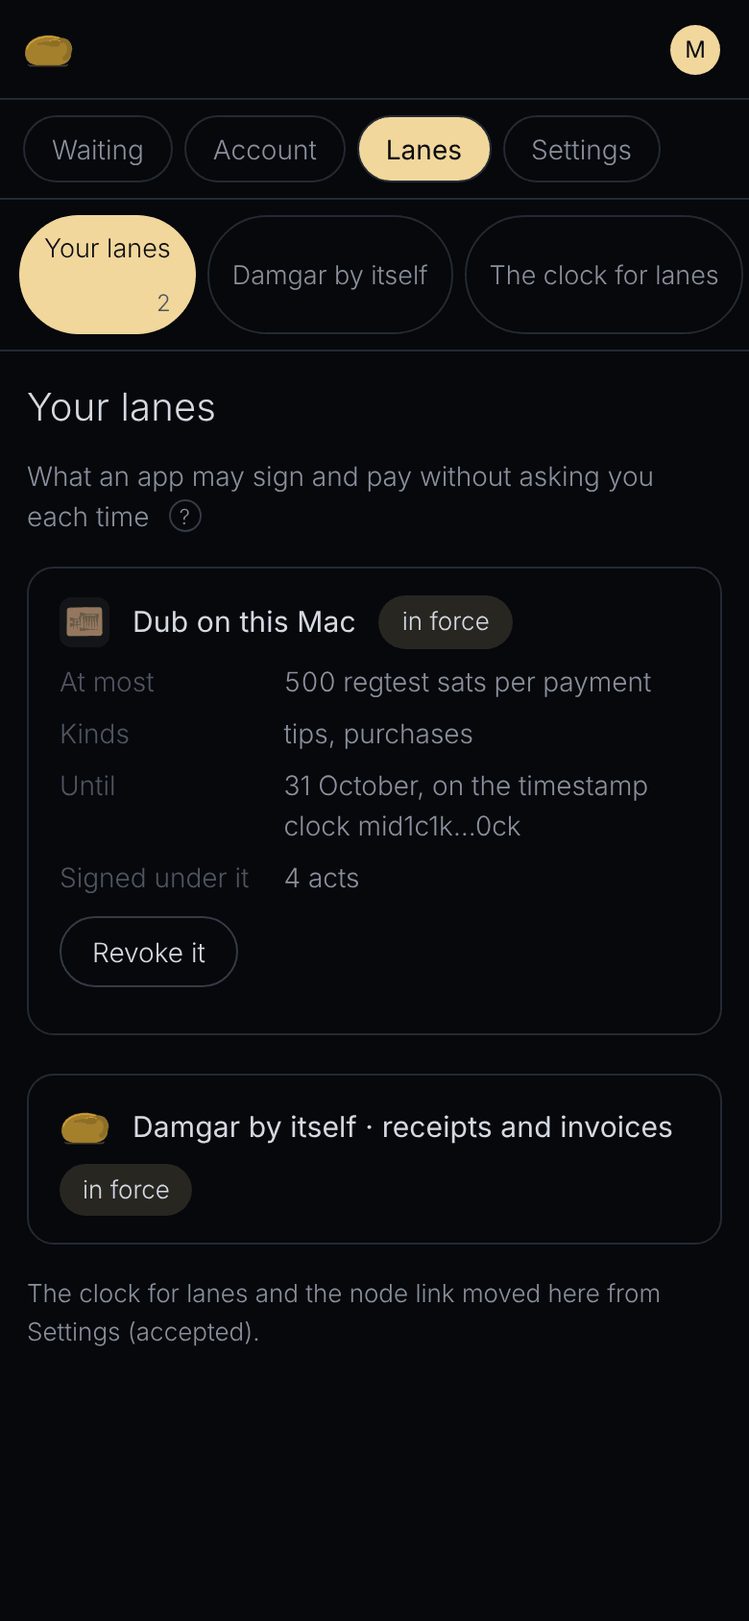
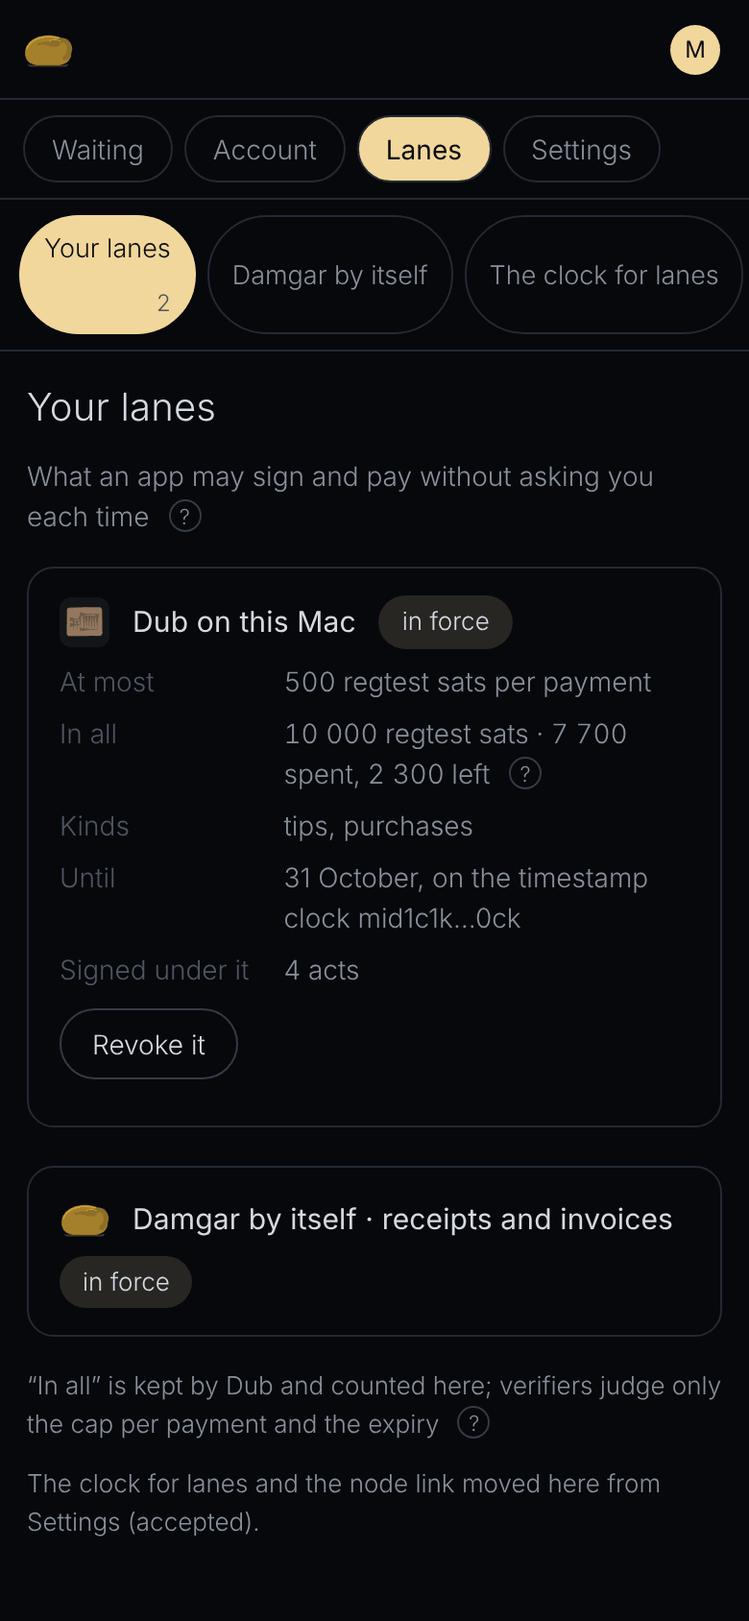
Three ways to pay from Dub, and a lane with a cap in all
Nobody, allegedly, 21 October 2026: Dub may buy, tip, unlock and pay in
three ways (by hand in Damgar; a money message Damgar queues, popping up on
the Mac; a lane granted in Damgar), and the lane gets a cap in all beside
the cap per act ("Yes, add it", after its cost was stated: kept by the
apps, not judged by verifiers). Drawn: the chooser in Dub (new mockup
dub-pay-chooser), "In all" on Damgar's lane, "Paste an act to sign" in
Damgar's Waiting; a payment under the lane is finished in Dub, its record in
Damgar's account. The report lists the tasks this creates for the build
sessions (grant-limits draft 3, the runner cMIP, Damgar's paste).

Claude-Session: https://claude.ai/code/session_01QoHu5J9KBXykGPCHZ7ZQVy

diff --git a/docs/design/mockups/damgar-identity-panel.html b/docs/design/mockups/damgar-identity-panel.html
@@ -2,7 +2,7 @@
 <html lang="en"><head><meta charset="utf-8"><meta name="viewport" content="width=device-width,initial-scale=1">
 <title>Damgar: The identity panel: + Add (Damgar gains Make) (mockup)</title><link rel="stylesheet" href="suite.css"></head>
 <body class="damgar"><div class="win">
-<header class="top"><div class="app"><img src="icons/damgar.png" alt=""><span class="nm">Damgar</span></div><nav class="tabs"><span class="tab on">Waiting</span><span class="tab">Account</span><span class="tab">Lanes</span><span class="tab">Settings</span></nav><span class="grow"></span><span class="grow"></span><button class="me"><span class="n">Max</span><span class="s">mid1qx7…m4k</span><span class="dot">M</span></button></header><nav class="phonetabs"><span class="tab on">Waiting</span><span class="tab">Account</span><span class="tab">Lanes</span><span class="tab">Settings</span></nav><div class="body"><aside class="col"><a class="on ">To sign<span class="k">3</span></a><a class="">To pay<span class="k">1</span></a><a class="">Requests and debts</a><div class="sep"></div><a class="">For Collective Y<span class="k">0</span></a></aside><section class="pane"><h2>To sign</h2><div class="feedwrap"><div class="feed "><article class="act"><span class="when">09:44</span><button class="signer"><span class="sid">mid1qx7…m4k</span><span class="nm">Max</span></button><div class="txt"><span class="kind">tip · from Dub</span>500 regtest sats to Pa, for “The reading of the tablets moves…”</div><div class="row" style="margin:4px 0"><span class="btn p">Sign it</span><span class="btn q">Decline</span></div><div class="foot"><span class="v" title="verified">✓</span><button class="actid">mact1d1t…7ip</button></div></article><article class="act"><span class="when">09:02</span><button class="signer"><span class="sid">mid1h3r…8tc</span><span class="nm">Ph</span></button><div class="txt"><span class="kind">request</span>Ph asks Max for 1 200 regtest sats: “the second tablet’s clay”.</div><div class="row" style="margin:4px 0"><span class="btn">Pay it</span><span class="btn q">Accept as a debt</span><span class="btn q">Refuse</span></div><div class="foot"><span class="v" title="verified">✓</span><button class="actid">mact1q8r…2ow</button></div></article><article class="act"><span class="when">Mon</span><button class="signer"><span class="sid">mid1qx7…m4k</span><span class="nm">Max</span></button><div class="txt"><span class="kind">anchor · from Ummia</span>Anchor mor-dub 0.4 on Bitcoin: tier “next batch”, 300 regtest sats.</div><div class="row" style="margin:4px 0"><span class="btn p">Sign it</span><span class="btn q">Decline</span></div><div class="foot"><span class="v" title="verified">✓</span><button class="actid">mact1a6c…9qz</button></div></article></div></div></section></div><div class="shade" style="background:rgba(3,4,6,.45)"></div><div class="panel"><div class="idrow on"><span class="dot">M</span><div><div class="n">Max</div><div class="s">mid1qx7…m4k</div></div><span class="more">⋯</span></div>
+<header class="top"><div class="app"><img src="icons/damgar.png" alt=""><span class="nm">Damgar</span></div><nav class="tabs"><span class="tab on">Waiting</span><span class="tab">Account</span><span class="tab">Lanes</span><span class="tab">Settings</span></nav><span class="grow"></span><span class="grow"></span><button class="me"><span class="n">Max</span><span class="s">mid1qx7…m4k</span><span class="dot">M</span></button></header><nav class="phonetabs"><span class="tab on">Waiting</span><span class="tab">Account</span><span class="tab">Lanes</span><span class="tab">Settings</span></nav><div class="body"><aside class="col"><a class="on ">To sign<span class="k">3</span></a><a class="">To pay<span class="k">1</span></a><a class="">Requests and debts</a><div class="sep"></div><a class="">For Collective Y<span class="k">0</span></a><div class="sep"></div><a class="add">+ Paste an act to sign</a></aside><section class="pane"><h2>To sign</h2><div class="feedwrap"><div class="feed "><article class="act"><span class="when">09:44</span><button class="signer"><span class="sid">mid1qx7…m4k</span><span class="nm">Max</span></button><div class="txt"><span class="kind">tip · from Dub</span>500 regtest sats to Pa, for “The reading of the tablets moves…”</div><div class="row" style="margin:4px 0"><span class="btn p">Sign it</span><span class="btn q">Decline</span></div><div class="foot"><span class="v" title="verified">✓</span><button class="actid">mact1d1t…7ip</button></div></article><article class="act"><span class="when">09:02</span><button class="signer"><span class="sid">mid1h3r…8tc</span><span class="nm">Ph</span></button><div class="txt"><span class="kind">request</span>Ph asks Max for 1 200 regtest sats: “the second tablet’s clay”.</div><div class="row" style="margin:4px 0"><span class="btn">Pay it</span><span class="btn q">Accept as a debt</span><span class="btn q">Refuse</span></div><div class="foot"><span class="v" title="verified">✓</span><button class="actid">mact1q8r…2ow</button></div></article><article class="act"><span class="when">Mon</span><button class="signer"><span class="sid">mid1qx7…m4k</span><span class="nm">Max</span></button><div class="txt"><span class="kind">anchor · from Ummia</span>Anchor mor-dub 0.4 on Bitcoin: tier “next batch”, 300 regtest sats.</div><div class="row" style="margin:4px 0"><span class="btn p">Sign it</span><span class="btn q">Decline</span></div><div class="foot"><span class="v" title="verified">✓</span><button class="actid">mact1a6c…9qz</button></div></article></div></div></section></div><div class="shade" style="background:rgba(3,4,6,.45)"></div><div class="panel"><div class="idrow on"><span class="dot">M</span><div><div class="n">Max</div><div class="s">mid1qx7…m4k</div></div><span class="more">⋯</span></div>
 <div class="idrow sub"><span class="dot c alt">Y</span><div><div class="n">Collective Y <span class="tagc">collective</span></div><div class="s">mid1y2c…v9s</div></div><span class="more">⋯</span></div>
 <div class="idrow"><span class="dot alt">T</span><div><div class="n">T</div><div class="s">mid1t6v…q0z</div></div><span class="more">⋯</span></div><div class="idrow on" style="color:var(--soft)">+ Add</div><div style="margin:4px 0 4px 8px"><div class="idrow"><b style="font-weight:400">Make one</b><span class="small soft">its chain key’s words shown once</span></div><div class="idrow"><b style="font-weight:400">Bring one</b><span class="small soft">its ID and signing words</span></div><div class="idrow"><b style="font-weight:400">Use one from Kišib</b><span class="small soft">runner on, Mac only</span></div></div><div style="height:1px;background:var(--line);margin:6px 4px"></div><div class="idrow small faint">This app: paired browsers, homes and relays</div></div>
 </div></body></html>

diff --git a/docs/design/mockups/damgar-act-signer-menu.html b/docs/design/mockups/damgar-act-signer-menu.html
@@ -2,5 +2,5 @@
 <html lang="en"><head><meta charset="utf-8"><meta name="viewport" content="width=device-width,initial-scale=1">
 <title>Damgar: The act card: the signer’s menu (Damgar) (mockup)</title><link rel="stylesheet" href="suite.css"></head>
 <body class="damgar"><div class="win">
-<header class="top"><div class="app"><img src="icons/damgar.png" alt=""><span class="nm">Damgar</span></div><nav class="tabs"><span class="tab on">Waiting</span><span class="tab">Account</span><span class="tab">Lanes</span><span class="tab">Settings</span></nav><span class="grow"></span><span class="grow"></span><button class="me"><span class="n">Max</span><span class="s">mid1qx7…m4k</span><span class="dot">M</span></button></header><nav class="phonetabs"><span class="tab on">Waiting</span><span class="tab">Account</span><span class="tab">Lanes</span><span class="tab">Settings</span></nav><div class="body"><aside class="col"><a class="on ">To sign<span class="k">3</span></a><a class="">To pay<span class="k">1</span></a><a class="">Requests and debts</a><div class="sep"></div><a class="">For Collective Y<span class="k">0</span></a></aside><section class="pane"><h2>To sign</h2><div class="feedwrap"><div class="feed menuopen"><article class="act"><span class="when">09:44</span><button class="signer"><span class="sid">mid1qx7…m4k</span><span class="nm">Max</span></button><div class="txt"><span class="kind">tip · from Dub</span>500 regtest sats to Pa, for “The reading of the tablets moves…”</div><div class="row" style="margin:4px 0"><span class="btn p">Sign it</span><span class="btn q">Decline</span></div><div class="foot"><span class="v" title="verified">✓</span><button class="actid">mact1d1t…7ip</button></div></article><article class="act sel"><span class="when">09:02</span><button class="signer open"><span class="sid">mid1h3r…8tc</span><span class="nm">Ph</span></button><div class="txt"><span class="kind">request</span>Ph asks Max for 1 200 regtest sats: “the second tablet’s clay”.</div><div class="row" style="margin:4px 0"><span class="btn">Pay it</span><span class="btn q">Accept as a debt</span><span class="btn q">Refuse</span></div><div class="foot"><span class="v" title="verified">✓</span><button class="actid">mact1q8r…2ow</button></div><div class="pop" style="top:36px;left:0"><div class="t">Ph · mid1h3r…8tc</div><a>Copy ID</a><a>Copy ID link</a><a>Open profile</a><hr><a>Follow: add to contacts</a><a>Tip Ph</a><a>Mute</a></div></article><article class="act"><span class="when">Mon</span><button class="signer"><span class="sid">mid1qx7…m4k</span><span class="nm">Max</span></button><div class="txt"><span class="kind">anchor · from Ummia</span>Anchor mor-dub 0.4 on Bitcoin: tier “next batch”, 300 regtest sats.</div><div class="row" style="margin:4px 0"><span class="btn p">Sign it</span><span class="btn q">Decline</span></div><div class="foot"><span class="v" title="verified">✓</span><button class="actid">mact1a6c…9qz</button></div></article></div></div></section></div>
+<header class="top"><div class="app"><img src="icons/damgar.png" alt=""><span class="nm">Damgar</span></div><nav class="tabs"><span class="tab on">Waiting</span><span class="tab">Account</span><span class="tab">Lanes</span><span class="tab">Settings</span></nav><span class="grow"></span><span class="grow"></span><button class="me"><span class="n">Max</span><span class="s">mid1qx7…m4k</span><span class="dot">M</span></button></header><nav class="phonetabs"><span class="tab on">Waiting</span><span class="tab">Account</span><span class="tab">Lanes</span><span class="tab">Settings</span></nav><div class="body"><aside class="col"><a class="on ">To sign<span class="k">3</span></a><a class="">To pay<span class="k">1</span></a><a class="">Requests and debts</a><div class="sep"></div><a class="">For Collective Y<span class="k">0</span></a><div class="sep"></div><a class="add">+ Paste an act to sign</a></aside><section class="pane"><h2>To sign</h2><div class="feedwrap"><div class="feed menuopen"><article class="act"><span class="when">09:44</span><button class="signer"><span class="sid">mid1qx7…m4k</span><span class="nm">Max</span></button><div class="txt"><span class="kind">tip · from Dub</span>500 regtest sats to Pa, for “The reading of the tablets moves…”</div><div class="row" style="margin:4px 0"><span class="btn p">Sign it</span><span class="btn q">Decline</span></div><div class="foot"><span class="v" title="verified">✓</span><button class="actid">mact1d1t…7ip</button></div></article><article class="act sel"><span class="when">09:02</span><button class="signer open"><span class="sid">mid1h3r…8tc</span><span class="nm">Ph</span></button><div class="txt"><span class="kind">request</span>Ph asks Max for 1 200 regtest sats: “the second tablet’s clay”.</div><div class="row" style="margin:4px 0"><span class="btn">Pay it</span><span class="btn q">Accept as a debt</span><span class="btn q">Refuse</span></div><div class="foot"><span class="v" title="verified">✓</span><button class="actid">mact1q8r…2ow</button></div><div class="pop" style="top:36px;left:0"><div class="t">Ph · mid1h3r…8tc</div><a>Copy ID</a><a>Copy ID link</a><a>Open profile</a><hr><a>Follow: add to contacts</a><a>Tip Ph</a><a>Mute</a></div></article><article class="act"><span class="when">Mon</span><button class="signer"><span class="sid">mid1qx7…m4k</span><span class="nm">Max</span></button><div class="txt"><span class="kind">anchor · from Ummia</span>Anchor mor-dub 0.4 on Bitcoin: tier “next batch”, 300 regtest sats.</div><div class="row" style="margin:4px 0"><span class="btn p">Sign it</span><span class="btn q">Decline</span></div><div class="foot"><span class="v" title="verified">✓</span><button class="actid">mact1a6c…9qz</button></div></article></div></div></section></div>
 </div></body></html>

diff --git a/docs/design/mockups/damgar-act-menu.html b/docs/design/mockups/damgar-act-menu.html
@@ -2,5 +2,5 @@
 <html lang="en"><head><meta charset="utf-8"><meta name="viewport" content="width=device-width,initial-scale=1">
 <title>Damgar: The act card: the act’s menu (Damgar) (mockup)</title><link rel="stylesheet" href="suite.css"></head>
 <body class="damgar"><div class="win">
-<header class="top"><div class="app"><img src="icons/damgar.png" alt=""><span class="nm">Damgar</span></div><nav class="tabs"><span class="tab on">Waiting</span><span class="tab">Account</span><span class="tab">Lanes</span><span class="tab">Settings</span></nav><span class="grow"></span><span class="grow"></span><button class="me"><span class="n">Max</span><span class="s">mid1qx7…m4k</span><span class="dot">M</span></button></header><nav class="phonetabs"><span class="tab on">Waiting</span><span class="tab">Account</span><span class="tab">Lanes</span><span class="tab">Settings</span></nav><div class="body"><aside class="col"><a class="on ">To sign<span class="k">3</span></a><a class="">To pay<span class="k">1</span></a><a class="">Requests and debts</a><div class="sep"></div><a class="">For Collective Y<span class="k">0</span></a></aside><section class="pane"><h2>To sign</h2><div class="feedwrap"><div class="feed menuopen"><article class="act"><span class="when">09:02</span><button class="signer"><span class="sid">mid1h3r…8tc</span><span class="nm">Ph</span></button><div class="txt"><span class="kind">request</span>Ph asks Max for 1 200 regtest sats: “the second tablet’s clay”.</div><div class="row" style="margin:4px 0"><span class="btn">Pay it</span><span class="btn q">Accept as a debt</span><span class="btn q">Refuse</span></div><div class="foot"><span class="v" title="verified">✓</span><button class="actid">mact1q8r…2ow</button></div></article><article class="act"><span class="when">Mon</span><button class="signer"><span class="sid">mid1qx7…m4k</span><span class="nm">Max</span></button><div class="txt"><span class="kind">anchor · from Ummia</span>Anchor mor-dub 0.4 on Bitcoin: tier “next batch”, 300 regtest sats.</div><div class="row" style="margin:4px 0"><span class="btn p">Sign it</span><span class="btn q">Decline</span></div><div class="foot"><span class="v" title="verified">✓</span><button class="actid">mact1a6c…9qz</button></div></article><article class="act sel"><span class="when">Sun</span><button class="signer"><span class="sid">mid1p9e…2wf</span><span class="nm">Pa</span></button><div class="txt"><span class="kind">receipt</span>Pa received 800 regtest sats from Max: “a seat, vowed”.</div><div class="foot"><span class="v" title="verified">✓</span><button class="actid open">mact1e5r…3vv</button></div><div class="pop" style="bottom:30px;right:0"><div class="t">mact1e5r…3vv</div><a>Copy act ID</a><a>Open what it answers</a><a>Why it’s valid</a><hr><div class="own">Damgar’s own</div><a>Rely on it</a><a>Anchor it</a><a>Tip</a></div></article></div></div></section></div>
+<header class="top"><div class="app"><img src="icons/damgar.png" alt=""><span class="nm">Damgar</span></div><nav class="tabs"><span class="tab on">Waiting</span><span class="tab">Account</span><span class="tab">Lanes</span><span class="tab">Settings</span></nav><span class="grow"></span><span class="grow"></span><button class="me"><span class="n">Max</span><span class="s">mid1qx7…m4k</span><span class="dot">M</span></button></header><nav class="phonetabs"><span class="tab on">Waiting</span><span class="tab">Account</span><span class="tab">Lanes</span><span class="tab">Settings</span></nav><div class="body"><aside class="col"><a class="on ">To sign<span class="k">3</span></a><a class="">To pay<span class="k">1</span></a><a class="">Requests and debts</a><div class="sep"></div><a class="">For Collective Y<span class="k">0</span></a><div class="sep"></div><a class="add">+ Paste an act to sign</a></aside><section class="pane"><h2>To sign</h2><div class="feedwrap"><div class="feed menuopen"><article class="act"><span class="when">09:02</span><button class="signer"><span class="sid">mid1h3r…8tc</span><span class="nm">Ph</span></button><div class="txt"><span class="kind">request</span>Ph asks Max for 1 200 regtest sats: “the second tablet’s clay”.</div><div class="row" style="margin:4px 0"><span class="btn">Pay it</span><span class="btn q">Accept as a debt</span><span class="btn q">Refuse</span></div><div class="foot"><span class="v" title="verified">✓</span><button class="actid">mact1q8r…2ow</button></div></article><article class="act"><span class="when">Mon</span><button class="signer"><span class="sid">mid1qx7…m4k</span><span class="nm">Max</span></button><div class="txt"><span class="kind">anchor · from Ummia</span>Anchor mor-dub 0.4 on Bitcoin: tier “next batch”, 300 regtest sats.</div><div class="row" style="margin:4px 0"><span class="btn p">Sign it</span><span class="btn q">Decline</span></div><div class="foot"><span class="v" title="verified">✓</span><button class="actid">mact1a6c…9qz</button></div></article><article class="act sel"><span class="when">Sun</span><button class="signer"><span class="sid">mid1p9e…2wf</span><span class="nm">Pa</span></button><div class="txt"><span class="kind">receipt</span>Pa received 800 regtest sats from Max: “a seat, vowed”.</div><div class="foot"><span class="v" title="verified">✓</span><button class="actid open">mact1e5r…3vv</button></div><div class="pop" style="bottom:30px;right:0"><div class="t">mact1e5r…3vv</div><a>Copy act ID</a><a>Open what it answers</a><a>Why it’s valid</a><hr><div class="own">Damgar’s own</div><a>Rely on it</a><a>Anchor it</a><a>Tip</a></div></article></div></div></section></div>
 </div></body></html>

diff --git a/docs/design/mockups/damgar-waiting.html b/docs/design/mockups/damgar-waiting.html
@@ -2,5 +2,5 @@
 <html lang="en"><head><meta charset="utf-8"><meta name="viewport" content="width=device-width,initial-scale=1">
 <title>Damgar: Waiting: to sign (mockup)</title><link rel="stylesheet" href="suite.css"></head>
 <body class="damgar"><div class="win">
-<header class="top"><div class="app"><img src="icons/damgar.png" alt=""><span class="nm">Damgar</span></div><nav class="tabs"><span class="tab on">Waiting</span><span class="tab">Account</span><span class="tab">Lanes</span><span class="tab">Settings</span></nav><span class="grow"></span><span class="grow"></span><button class="me"><span class="n">Max</span><span class="s">mid1qx7…m4k</span><span class="dot">M</span></button></header><nav class="phonetabs"><span class="tab on">Waiting</span><span class="tab">Account</span><span class="tab">Lanes</span><span class="tab">Settings</span></nav><div class="body"><aside class="col"><a class="on ">To sign<span class="k">3</span></a><a class="">To pay<span class="k">1</span></a><a class="">Requests and debts</a><div class="sep"></div><a class="">For Collective Y<span class="k">0</span></a></aside><section class="pane"><h2>To sign</h2><p class="lede">Drafts the other apps put on MOR, sealed to you, and what others ask of you <span class="help">?</span></p><div class="feedwrap"><div class="feed "><article class="act"><span class="when">09:44</span><button class="signer"><span class="sid">mid1qx7…m4k</span><span class="nm">Max</span></button><div class="txt"><span class="kind">tip · from Dub</span>500 regtest sats to Pa, for “The reading of the tablets moves…”</div><div class="row" style="margin:4px 0"><span class="btn p">Sign it</span><span class="btn q">Decline</span></div><div class="foot"><span class="v" title="verified">✓</span><button class="actid">mact1d1t…7ip</button></div></article><article class="act"><span class="when">09:02</span><button class="signer"><span class="sid">mid1h3r…8tc</span><span class="nm">Ph</span></button><div class="txt"><span class="kind">request</span>Ph asks Max for 1 200 regtest sats: “the second tablet’s clay”.</div><div class="row" style="margin:4px 0"><span class="btn">Pay it</span><span class="btn q">Accept as a debt</span><span class="btn q">Refuse</span></div><div class="foot"><span class="v" title="verified">✓</span><button class="actid">mact1q8r…2ow</button></div></article><article class="act"><span class="when">Mon</span><button class="signer"><span class="sid">mid1qx7…m4k</span><span class="nm">Max</span></button><div class="txt"><span class="kind">anchor · from Ummia</span>Anchor mor-dub 0.4 on Bitcoin: tier “next batch”, 300 regtest sats.</div><div class="row" style="margin:4px 0"><span class="btn p">Sign it</span><span class="btn q">Decline</span></div><div class="foot"><span class="v" title="verified">✓</span><button class="actid">mact1a6c…9qz</button></div></article></div></div></section></div>
+<header class="top"><div class="app"><img src="icons/damgar.png" alt=""><span class="nm">Damgar</span></div><nav class="tabs"><span class="tab on">Waiting</span><span class="tab">Account</span><span class="tab">Lanes</span><span class="tab">Settings</span></nav><span class="grow"></span><span class="grow"></span><button class="me"><span class="n">Max</span><span class="s">mid1qx7…m4k</span><span class="dot">M</span></button></header><nav class="phonetabs"><span class="tab on">Waiting</span><span class="tab">Account</span><span class="tab">Lanes</span><span class="tab">Settings</span></nav><div class="body"><aside class="col"><a class="on ">To sign<span class="k">3</span></a><a class="">To pay<span class="k">1</span></a><a class="">Requests and debts</a><div class="sep"></div><a class="">For Collective Y<span class="k">0</span></a><div class="sep"></div><a class="add">+ Paste an act to sign</a></aside><section class="pane"><h2>To sign</h2><p class="lede">Drafts the other apps put on MOR, sealed to you, and what others ask of you <span class="help">?</span></p><div class="feedwrap"><div class="feed "><article class="act"><span class="when">09:44</span><button class="signer"><span class="sid">mid1qx7…m4k</span><span class="nm">Max</span></button><div class="txt"><span class="kind">tip · from Dub</span>500 regtest sats to Pa, for “The reading of the tablets moves…”</div><div class="row" style="margin:4px 0"><span class="btn p">Sign it</span><span class="btn q">Decline</span></div><div class="foot"><span class="v" title="verified">✓</span><button class="actid">mact1d1t…7ip</button></div></article><article class="act"><span class="when">09:02</span><button class="signer"><span class="sid">mid1h3r…8tc</span><span class="nm">Ph</span></button><div class="txt"><span class="kind">request</span>Ph asks Max for 1 200 regtest sats: “the second tablet’s clay”.</div><div class="row" style="margin:4px 0"><span class="btn">Pay it</span><span class="btn q">Accept as a debt</span><span class="btn q">Refuse</span></div><div class="foot"><span class="v" title="verified">✓</span><button class="actid">mact1q8r…2ow</button></div></article><article class="act"><span class="when">Mon</span><button class="signer"><span class="sid">mid1qx7…m4k</span><span class="nm">Max</span></button><div class="txt"><span class="kind">anchor · from Ummia</span>Anchor mor-dub 0.4 on Bitcoin: tier “next batch”, 300 regtest sats.</div><div class="row" style="margin:4px 0"><span class="btn p">Sign it</span><span class="btn q">Decline</span></div><div class="foot"><span class="v" title="verified">✓</span><button class="actid">mact1a6c…9qz</button></div></article></div></div></section></div>
 </div></body></html>

diff --git a/docs/design/mockups/index.html b/docs/design/mockups/index.html
@@ -70,7 +70,10 @@ nav a{text-decoration:none;border:1px solid #323a47;border-radius:999px;padding:
 <div class="before none"><span class="lbl">today</span><p>No screen of today: new in the redesign.</p></div></div></article><article class="m" id="dub-vow-menu"><header><h3>A vow Max bought: confirm or contest it, in its menu (Dub)</h3><span class="note">decided: only on vows the ID bought</span><a href="dub-vow-menu.html">open the page</a></header>
 <div class="pair"><div class="new"><span class="lbl">new · Mac 1280×800</span><a href="shots/after/dub-vow-menu-mac.png"><img loading="lazy" src="shots/after/dub-vow-menu-mac.png" alt="A vow Max bought: confirm or contest it, in its menu (Dub), Mac"></a></div>
 <div class="phone"><span class="lbl">new · phone 390×844</span><a href="shots/after/dub-vow-menu-phone.png"><img loading="lazy" src="shots/after/dub-vow-menu-phone.png" alt="A vow Max bought: confirm or contest it, in its menu (Dub), phone"></a></div>
-<div class="before"><span class="lbl">today</span><a href="shots/before/edubba/web-dub-sealed-and-vow.png"><img loading="lazy" src="shots/before/edubba/web-dub-sealed-and-vow.png" alt="today: edubba/web-dub-sealed-and-vow.png"><span>edubba/web-dub-sealed-and-vow.png</span></a></div></div></article><article class="m" id="dub-thread"><header><h3>The pop-up thread: what an act answers</h3><span class="note">decided: a pop-up with a feed box and a back arrow</span><a href="dub-thread.html">open the page</a></header>
+<div class="before"><span class="lbl">today</span><a href="shots/before/edubba/web-dub-sealed-and-vow.png"><img loading="lazy" src="shots/before/edubba/web-dub-sealed-and-vow.png" alt="today: edubba/web-dub-sealed-and-vow.png"><span>edubba/web-dub-sealed-and-vow.png</span></a></div></div></article><article class="m" id="dub-pay-chooser"><header><h3>Buy, tip, unlock or pay: the ways open, chosen in Dub</h3><span class="note">decided: three ways, a lane with a cap in all</span><a href="dub-pay-chooser.html">open the page</a></header>
+<div class="pair"><div class="new"><span class="lbl">new · Mac 1280×800</span><a href="shots/after/dub-pay-chooser-mac.png"><img loading="lazy" src="shots/after/dub-pay-chooser-mac.png" alt="Buy, tip, unlock or pay: the ways open, chosen in Dub, Mac"></a></div>
+<div class="phone"><span class="lbl">new · phone 390×844</span><a href="shots/after/dub-pay-chooser-phone.png"><img loading="lazy" src="shots/after/dub-pay-chooser-phone.png" alt="Buy, tip, unlock or pay: the ways open, chosen in Dub, phone"></a></div>
+<div class="before none"><span class="lbl">today</span><p>No screen of today: new in the redesign.</p></div></div></article><article class="m" id="dub-thread"><header><h3>The pop-up thread: what an act answers</h3><span class="note">decided: a pop-up with a feed box and a back arrow</span><a href="dub-thread.html">open the page</a></header>
 <div class="pair"><div class="new"><span class="lbl">new · Mac 1280×800</span><a href="shots/after/dub-thread-mac.png"><img loading="lazy" src="shots/after/dub-thread-mac.png" alt="The pop-up thread: what an act answers, Mac"></a></div>
 <div class="phone"><span class="lbl">new · phone 390×844</span><a href="shots/after/dub-thread-phone.png"><img loading="lazy" src="shots/after/dub-thread-phone.png" alt="The pop-up thread: what an act answers, phone"></a></div>
 <div class="before none"><span class="lbl">today</span><p>No screen of today: new in the redesign.</p></div></div></article><article class="m" id="dub-profile"><header><h3>The profile page: light and friendly</h3><span class="note">accepted: the profile’s list</span><a href="dub-profile.html">open the page</a></header>

diff --git a/docs/design/mockups/dub-pay-chooser.html b/docs/design/mockups/dub-pay-chooser.html
@@ -1,0 +1,13 @@
+<!doctype html>
+<html lang="en"><head><meta charset="utf-8"><meta name="viewport" content="width=device-width,initial-scale=1">
+<title>Dub: Buy, tip, unlock or pay: the ways open, chosen in Dub (mockup)</title><link rel="stylesheet" href="suite.css"></head>
+<body class="dub"><div class="win">
+<header class="top"><div style="display:flex;align-items:center;gap:12px"><button class="menu-btn"><span>☰</span><span class="l">Contacts</span></button><div class="app hide-phone"><img src="icons/dub.png" alt=""><span class="nm">Dub</span></div></div><span class="grow"></span><div class="switch"><span class="on">Public</span><span>Private <span class="cnt" style="background:var(--edge);color:var(--text);border-radius:999px;padding:0 6px;font-size:11px">2</span></span><span>Purchases</span></div><span class="grow"></span><button class="me"><span class="n">Max</span><span class="s">mid1qx7…m4k</span><span class="dot">M</span></button></header><div class="body"><section class="pane" style="max-width:820px;margin:0 auto;width:100%"><div class="lenses"><span class="lens on">Following</span><span class="lens">To you · 1</span><span class="lens">Relay</span></div><div class="feedwrap"><div class="feed "><article class="act"><span class="when">08:52</span><button class="signer"><span class="sid">mid1h3r…8tc</span><span class="nm">Ph</span></button><div class="txt">Clay drying on the sill this morning.</div><div class="pic"></div><div class="foot"><span class="v" title="verified">✓</span><button class="actid">mact1w2n…9xe</button></div></article><article class="act sel"><span class="when">Sun</span><button class="signer"><span class="sid">mid1p9e…2wf</span><span class="nm">Pa</span></button><div class="txt"><span class="kind">vow</span>A seat at the reading of the tablets. 500 regtest sats.</div><div class="foot"><span class="v" title="verified">✓</span><button class="actid">mact1v1s…0aa</button></div></article></div></div><div class="typing"><div class="ta">Write something public…</div><div class="tools"><span title="picture">▣ Picture</span><span>@</span><span>To…</span><span class="btn p">Post</span></div></div></section></div><div class="shade"></div>
+<div class="modal"><div class="mh"><h3>Buy Pa’s vow</h3><span class="grow"></span><span class="small soft money">500 regtest sats</span></div>
+<p class="small soft" style="margin:0 0 6px">A seat at the reading of the tablets · mid1p9e…2wf</p>
+<div class="list">
+<div style="background:var(--wash2);border-radius:10px;padding-left:10px"><span class="ticked"><i class="y" style="border-radius:50%"></i></span><div><div>Under Dub’s lane</div><div class="small soft">Dub signs it now. Per payment: at most 500 ✓ · in all: 2 300 of 10 000 left · until 31 October</div></div></div>
+<div style="padding-left:10px"><span class="ticked"><i style="border-radius:50%"></i></span><div><div>Ask Damgar</div><div class="small soft">Dub sends it to Damgar as a private message; Damgar queues it, and on this Mac pops up to sign</div></div></div>
+<div style="padding-left:10px"><span class="ticked"><i style="border-radius:50%"></i></span><div><div>By hand</div><div class="small soft">Copy the act, then in Damgar: Waiting › Paste an act to sign</div></div></div></div>
+<div class="row"><span class="btn p">Buy it</span><span class="btn q">Cancel</span><span class="grow"></span><span class="small faint">the record goes to Damgar’s account</span></div></div>
+</div></body></html>

diff --git a/docs/design/mockups/damgar-lanes.html b/docs/design/mockups/damgar-lanes.html
@@ -3,7 +3,8 @@
 <title>Damgar: Lanes: the lanes granted (mockup)</title><link rel="stylesheet" href="suite.css"></head>
 <body class="damgar"><div class="win">
 <header class="top"><div class="app"><img src="icons/damgar.png" alt=""><span class="nm">Damgar</span></div><nav class="tabs"><span class="tab">Waiting</span><span class="tab">Account</span><span class="tab on">Lanes</span><span class="tab">Settings</span></nav><span class="grow"></span><span class="grow"></span><button class="me"><span class="n">Max</span><span class="s">mid1qx7…m4k</span><span class="dot">M</span></button></header><nav class="phonetabs"><span class="tab">Waiting</span><span class="tab">Account</span><span class="tab on">Lanes</span><span class="tab">Settings</span></nav><div class="body"><aside class="col"><a class="on ">Your lanes<span class="k">2</span></a><a class="">Damgar by itself</a><div class="sep"></div><a class="">The clock for lanes</a><a class="">The node link</a></aside><section class="pane"><h2>Your lanes</h2><p class="lede">What an app may sign and pay without asking you each time <span class="help">?</span></p>
-<div class="box"><div class="head"><img src="icons/dub.png" width="26" style="border-radius:6px"><h4 style="margin:0">Dub on this Mac</h4><span class="chip on">in force</span></div><dl class="facts"><dt>At most</dt><dd class="money">500 regtest sats per payment</dd><dt>Kinds</dt><dd>tips, purchases</dd><dt>Until</dt><dd>31 October, on the timestamp clock mid1c1k…0ck</dd><dt>Signed under it</dt><dd>4 acts</dd></dl><div class="row"><span class="btn">Revoke it</span></div></div>
+<div class="box"><div class="head"><img src="icons/dub.png" width="26" style="border-radius:6px"><h4 style="margin:0">Dub on this Mac</h4><span class="chip on">in force</span></div><dl class="facts"><dt>At most</dt><dd class="money">500 regtest sats per payment</dd><dt>In all</dt><dd class="money">10 000 regtest sats · 7 700 spent, 2 300 left <span class="help">?</span></dd><dt>Kinds</dt><dd>tips, purchases</dd><dt>Until</dt><dd>31 October, on the timestamp clock mid1c1k…0ck</dd><dt>Signed under it</dt><dd>4 acts</dd></dl><div class="row"><span class="btn">Revoke it</span></div></div>
 <div class="box"><div class="head"><img src="icons/damgar.png" width="26" style="border-radius:6px"><h4 style="margin:0">Damgar by itself · receipts and invoices</h4><span class="chip on">in force</span></div></div>
+<p class="small soft">“In all” is kept by Dub and counted here; verifiers judge only the cap per payment and the expiry <span class="help">?</span></p>
 <p class="small soft">The clock for lanes and the node link moved here from Settings (accepted).</p></section></div>
 </div></body></html>

diff --git a/docs/design/mockups/damgar-account.html b/docs/design/mockups/damgar-account.html
@@ -6,5 +6,5 @@
 <div class="cols2"><div class="box fill"><p class="small soft">regtest sats · Lightning</p><dl class="facts money"><dt>In</dt><dd>4 300</dd><dt>Out</dt><dd>2 800</dd><dt>Pending</dt><dd>500</dd><dt>Owed to you</dt><dd>0</dd><dt>You owe</dt><dd>1 200</dd></dl></div>
 <div class="box"><p class="small soft">regtest sats · on-chain</p><dl class="facts money"><dt>In</dt><dd>10 000</dd><dt>Out</dt><dd>0</dd><dt>Pending</dt><dd>0</dd></dl></div></div>
 <h4 style="margin-top:12px">Latest</h4><div class="list"><div>Tip to Pa<span class="r money">−500 · pending</span></div><div>Pa’s vow, “a seat”<span class="r money">−800 · paid and confirmed</span></div><div>From Ph, sealed post<span class="r money">+300 · paid and confirmed</span></div></div>
-<p class="small soft">“Under the lanes”: the payments Dub made under its lane, moved here from Dub <span class="nd">not decided<b>· lead’s</b></span></p></section></div>
+<p class="small soft">“Under the lanes”: what Dub signed and paid under its lane. Dub finishes those payments itself; the record is kept here.</p></section></div>
 </div></body></html>

diff --git a/docs/design/mockups-report.md b/docs/design/mockups-report.md
@@ -66,7 +66,7 @@ Section 2 lists each one. Everything without a tag is the note's *decided* or *a
 3. A faint short ID when two names collide, in the @ list (`dub-mention`: two people called Pa). *Settled by the design session (21 October 2026, "Decide what you can yourself. If unsure, ask"): kept as drawn, tag removed; reason in "Settled by the design session" below.*
 4. Cc for anyone, not only members (`dub-private`: "+ Cc"). *Settled by the design session (21 October 2026, "Decide what you can yourself. If unsure, ask"): kept as drawn, tag removed; reason in "Settled by the design session" below.*
 5. Buy in the act menu (`dub-act-menu`). *Settled by the design session (21 October 2026, "Decide what you can yourself. If unsure, ask"): kept as drawn, tag removed; reason in "Settled by the design session" below.*
-6. Payments made under Dub's lane moved to Damgar: Account › "Under the lanes" (`damgar-account`).
+6. Payments made under Dub's lane moved to Damgar: Account › "Under the lanes" (`damgar-account`). *Decided by Nobody, allegedly, 21 October 2026, with the three ways to pay below (item 27): a payment under the lane is finished in Dub, which may sign it; the record is kept in Damgar's account. Tag removed.*
 7. Edubba's Agents with four tabs, Talk · Queue · Mind · Terms (`edubba-agents`, `-agents-queue`, `-agents-terms`, `edubba-diary`).
 8. Claude's drafts to the agents, proposed dropped. *Decided by Nobody, allegedly, 21 October 2026 (question 6): "Drafts can be removed." Removed from the pictures.*
 9. Edubba's received-items piles, proposed dropped. *Decided (question 6): removed for now: "The sorting pile makes sense only if then there are feeds to go find them. I'd remove them for now. It's a mailbox behavior type of things." Removed from `dub-to-you`.*
@@ -103,6 +103,9 @@ Section 2 lists each one. Everything without a tag is the note's *decided* or *a
 24. The change of keys as five steps: the words · read back · signed · new chain paper (1 of 2) · new signing words (2 of 2). Each set is shown once, then three words are asked back.
 25. The quiet door to Paper: a plain card with "Open Paper" / "Not now", and nothing else on the screen.
 26. **A Purchases tab in Dub**, from your answer to question 6 ("Maybe dub needs a 'purchases' tab, a way to quickly see files bought and vows purchased"). Drawn as a third part of the top switch, Public · Private · Purchases, holding one feed box of files bought and vows purchased, with All · Files · Vows above it (`dub-purchases`). *Decided by Nobody, allegedly, 21 October 2026 (question 11): "Yes, it fits." Tag removed; Dub's switch reads Public · Private · Purchases on every screen.*
+27. **Three ways to pay from Dub, and a lane with a cap in all.** *Decided by Nobody, allegedly, 21 October 2026.* His words: "Dub has no money signing by default, everything has to be done in Damgar… That was the experiment, now we're looking at using more to do something closer to a prototype." The three ways: (1) the tedious way, copying the act and signing it in Damgar; (2) a money message, which Damgar queues, and (2A) which pops Damgar up on the Mac; (3) a lane "with a cap on total, and a cap per act". "Damgar remains the money hub. It grants other apps rights. The rights are requested by the apps, and approved in Damgar. When moving info from app to app simply use private messages. If a new format is needed we create a new cMIP." On the cap in all, after its cost was stated: "Yes, add it."
+    - **Drawn:** Buy, Tip, unlock and Pay in Dub open one chooser offering the ways open (`dub-pay-chooser`): Under Dub's lane (with what is left), Ask Damgar, By hand. Damgar's Waiting gains "+ Paste an act to sign" (`damgar-waiting`). Damgar's lane shows "In all" beside the cap per payment (`damgar-lanes`).
+    - **Its cost, stated:** the grant-limits cMIP leaves a total out on purpose (draft 2, section 2.3), because a total needs every act of the lane, some private, so no outsider can check it. The cap in all is therefore kept by the apps: Dub refuses to sign past it, and Damgar counts it. Verifiers judge only the cap per payment and the expiry. A Dub that ignores the total can still sign up to the cap per payment until the lane expires or is revoked, and Damgar shows the overspend.
 
 **Settled by the design session.** On 21 October 2026, Nobody, allegedly, said: "Decide what you can yourself. If unsure, ask." I settled the following, each kept as drawn and its tag removed:
 - **Disclaimers in one line with a "?"** (item 1): this answers his own complaint that disclaimers take the space, and nothing is lost behind the "?".
@@ -151,13 +154,13 @@ Section 2 lists each one. Everything without a tag is the note's *decided* or *a
 | Dub | Publish whom one follows | Following fold checkbox | Contacts › "Publish whom Max follows" |
 | Dub | Everyone / To you / Relay views; look again | Public filters | The three lenses, Following · To you · Relay (decided, question 1) |
 | Dub | Long-form document link | Feed post | Act card, a link to the reader (`dub-home`, T's card) |
-| Dub | Tip: prepare for Damgar, or pay under the lane | Post › Tip | Act menu › Tip → Damgar's panel inside Dub (decided) |
+| Dub | Tip: prepare for Damgar, or pay under the lane | Post › Tip | Act menu › Tip → the chooser: under Dub's lane, Ask Damgar (its panel pops up on the Mac), or by hand (decided, item 27) (`dub-pay-chooser`) |
 | Dub | Pay-per-view: seal a post with a price | Public fold | Removed (decided) |
 | Dub | Files bought and vows purchased, seen at a glance | Signing › Vows you bought; the feed | Purchases, a third part of the switch (decided, question 11) (`dub-purchases`) |
 | Dub | Buy a sealed post or a vow | Feed box › Buy it, under the lane | Act menu › Buy (settled); what is bought shows in Purchases |
 | Dub | Confirm / contest a vow bought | Signing › Vows you bought | The vow's act menu, below a line: Confirm: it was kept / Contest it…, shown only on vows the identity bought (decided, question 5) (`dub-vow-menu`); Edubba › Vows |
 | Dub | Ask someone to pay you | Private fold | Private typing box › + Ask to be paid (settled) |
-| Dub | Payments under the lane (invoice, preimage, claim) | Private fold | Damgar › Account › Under the lanes † |
+| Dub | Payments under the lane (invoice, preimage, claim) | Private fold | Finished in Dub under its lane (Dub signs); the record in Damgar › Account › Under the lanes (decided, item 27) |
 | Dub | Private message, sealed; reply; inbox | Private tab | Mailbox: conversations left, thread, typing box at the bottom (decided) |
 | Dub | Private message to someone new | Private form | An empty feed (decided) (`dub-private-new`) |
 | Dub | Proposals, shares, leaving (Signing tab) | Signing tab | Edubba › Collectives › To sign (Signing tab removed, decided) |
@@ -242,6 +245,13 @@ No function of today was dropped from the pictures. The decided removals are Dub
 9. **Collective Y's tabs (Act, Members, Money, Keepers, To sign): do they match your sketch?** *Lean: they follow today's folds; your sketch wins.* **Answered, 21 October 2026: "No, it's fine, building is like working with clay… the more you move forward the more it gets defined."** Kept as drawn.
 10. **The runner and lines of acts.** When the runner signs for Dub, it signs on its own line per app; Kišib's change of keys already finds every line. *Lean: say so in the runner cMIP. The core already allows an identity several lines (Identity, "Sequence"), so it is not a question for the MOR lead.* **Answered, 21 October 2026: "Yes, good idea."** For the runner cMIP: the runner keeps its own line of acts for each app it signs for.
 11. **Purchases in Dub: a third part of the top switch (Public · Private · Purchases)?** Raised in your answer to question 6 ("Maybe dub needs a 'purchases' tab"). Drawn in `dub-purchases`. *Lean: yes, as drawn; the switch stays the one place to move between Dub's views.* **Answered, 21 October 2026: "Yes, it fits."** As drawn.
+
+## For the next build sessions (the Dubsar team)
+
+*Nobody, allegedly, 21 October 2026: "All cMIPs and modules and extensions and xtypes are under your control. This is the Dubsar team. The other team is the MOR team."* This design session changed no cMIP; these are the tasks its answers create:
+- **The grant-limits cMIP, draft 3:** a cap in all (limits key 2), marked as kept by the apps, not judged by verifiers, with the cost of section 2, item 27. Also a lane's request carrying it, as a private message from the asking app to Damgar.
+- **The runner cMIP:** its own line of acts for each app it signs for (question 10).
+- **Damgar:** "Paste an act to sign" in Waiting (way 1 of item 27).
 
 ## For the MOR lead
 
